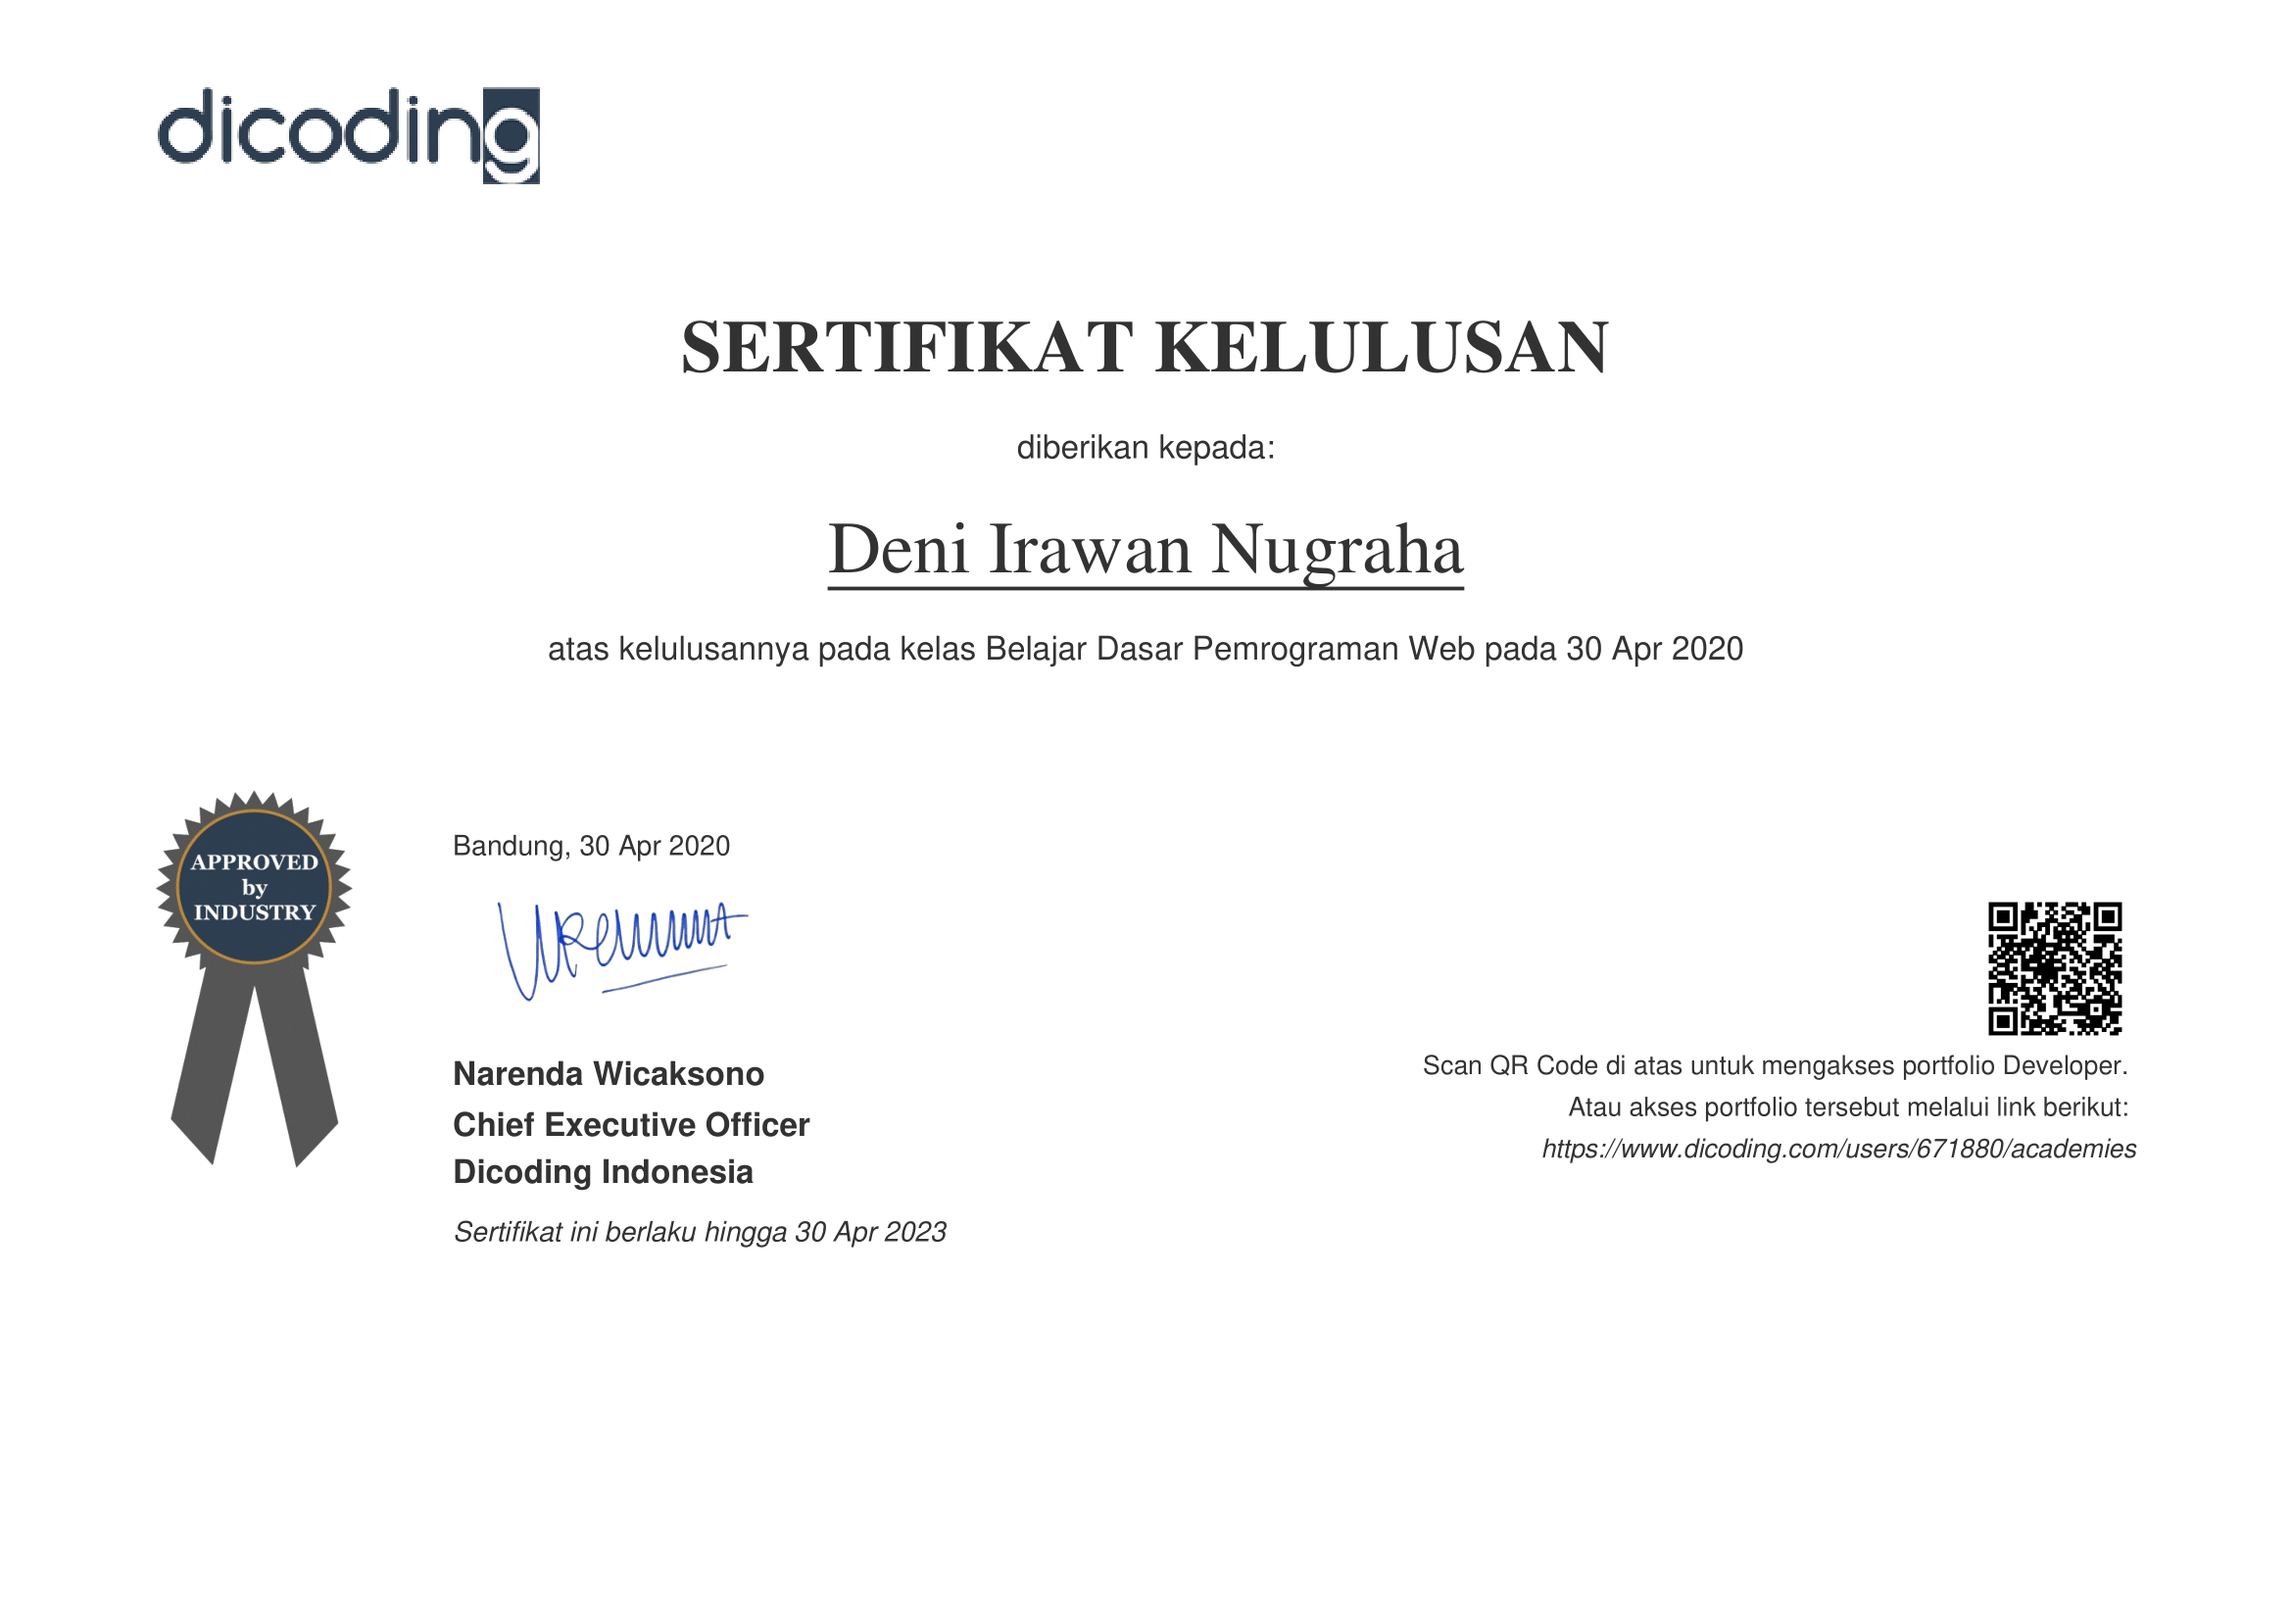
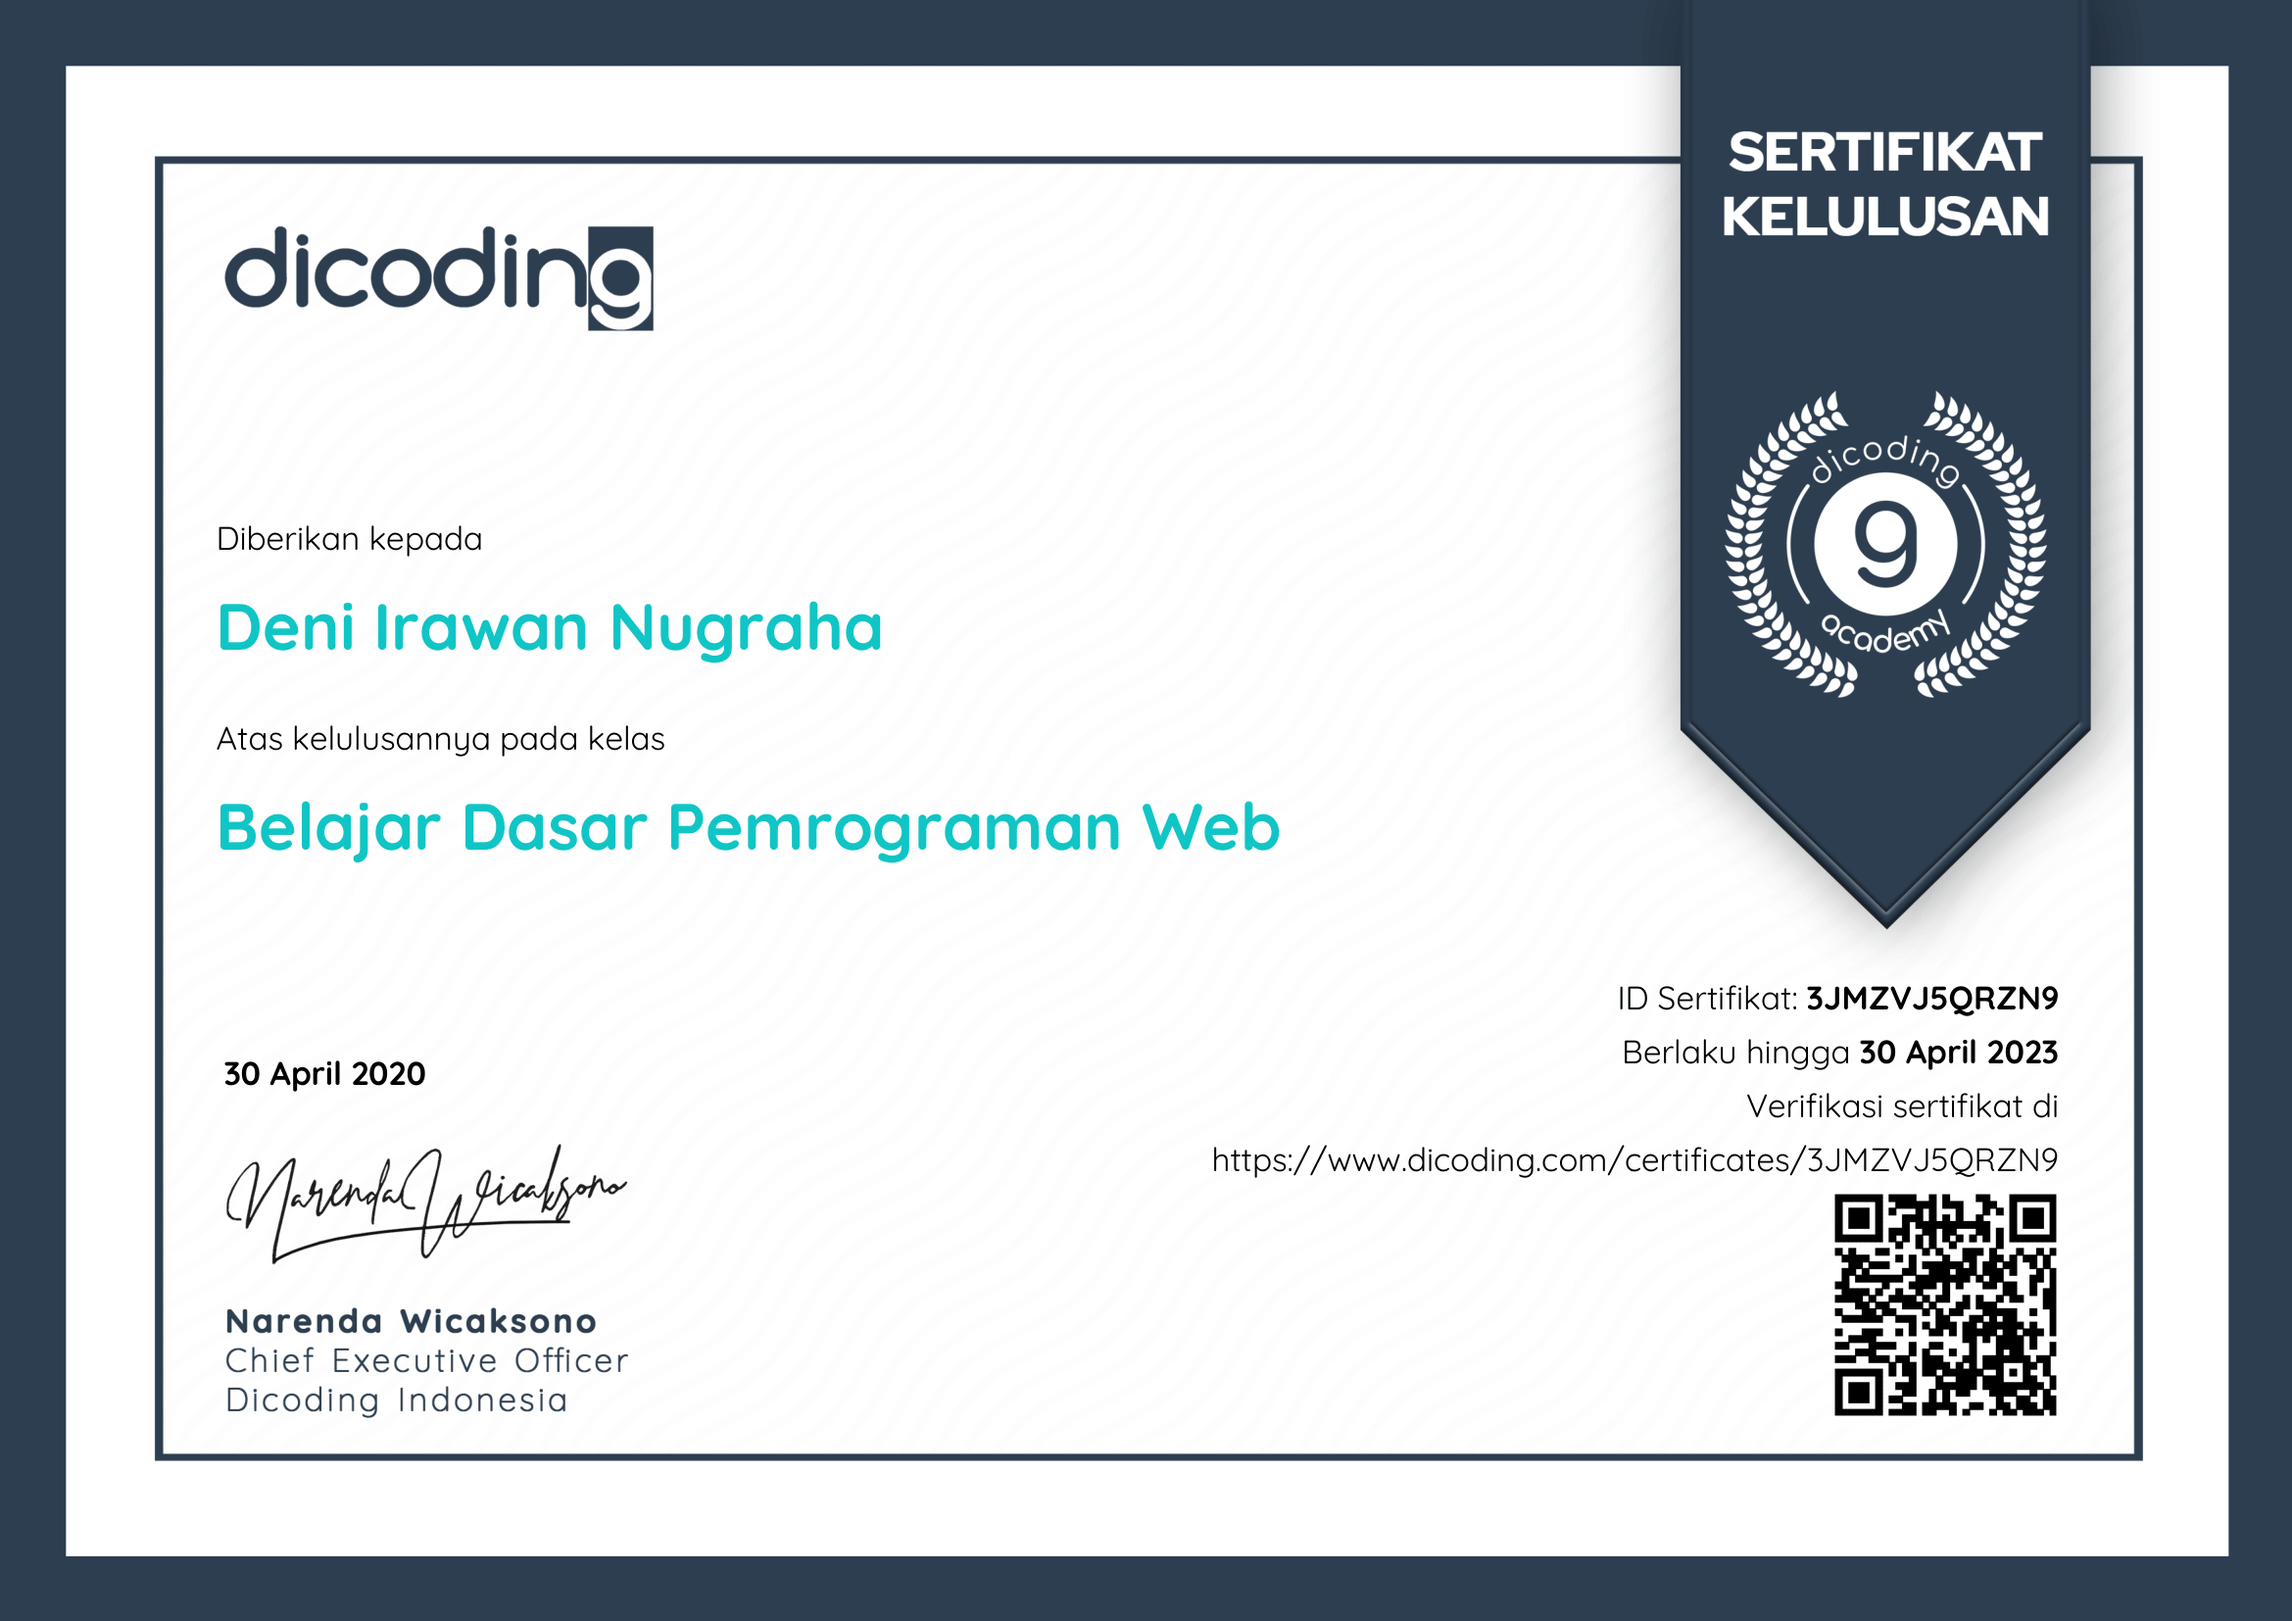
update sertifikat dicoding

diff --git a/certificate.html b/certificate.html
@@ -105,103 +105,10 @@
    	<div class="row portfolio-content">
    		<div class="col-twelve">
    			<div id="folio-wrap" class="bricks-wrapper">					
-
-   				<div class="brick folio-item">
-	               <div class="item-wrap animate-this" data-src="images/certificate/2ed969739e17c1dc4971164ea10df84bpath_certificate_ae777f0dqb7a8z-1.png" data-sub-html="#01" > 	
-	                  <a href="#" class="overlay">
-	                  	<img src="images/certificate/2ed969739e17c1dc4971164ea10df84bpath_certificate_ae777f0dqb7a8z-1.png" alt="dicoding1">	                     
-	                     <div class="item-text">
-	                     	<span class="folio-types">
-		     					      Certificate 
-		     					   </span>
-		     					   <h3 class="folio-title">Path Pengembangan Web (Node Js)<br>From Progate</h3>	     					   
-		     					</div>                                        
-	                  </a>
-	                  <a href="#" class='details-link' title="details">
-	                  	<i class="icon-link"></i>
-	                  </a>
-	               </div> <!-- end item-wrap -->
-						
-						<div id="01" class='hide'>
-							<h4>Curriculum</h4>
-							<p>
-							  1.Fundamental Html & Css<br>
-							  2.Fundamental JavaScript<br>
-							  3.Fundamental React Js<br>
-							  4.Fundamental Mysql<br>
-							  5.Fundamental Node Js
-							</p>
-						
-						</div>
-	        		</div> <!-- end folio-item -->
-
 	        		<div class="brick folio-item">
-	               <div class="item-wrap animate-this" data-src="images/certificate/CERT-VPGLRCTF.jpg" data-sub-html="#02"> 	
-	                  <a href="#" class="overlay">
-	                  	<img src="images/certificate/CERT-VPGLRCTF.jpg" alt="skill academy 1">	                     
-	                     <div class="item-text">
-	                     	<span class="folio-types">
-		     					      Certificate
-		     					   </span>
-		     					   <h3 class="folio-title">UX Designer : Digital Product Development<br>From Skill Academy</h3>  	     					   
-		     					</div>                                        
-	                  </a>
-	                  <a href="https://skillacademy.com/sertifikat/AZ9BZKVRB7GIRP" class='details-link' title="details">
-	                  	<i class="icon-link"></i>
-	                  </a>
-	               </div> <!-- end item-wrap -->
 
-	               <div id="02" class='hide'>
-							<h4>Curriculum</h4>
-							<p>1.Basic Concept UX Design<br>
-                 2.User Centric Design (UCD) Product Development<br>
-                 3.Who Are The Users<br>
-                 4.User Interviews & Surveys<br>
-                 5.Customer Journey Map (CJM)<br>
-                 6.IA & User Flow<br>
-                 7.Prototype<br>
-                 8.Usability Testing<br>
-                 9.Summary<br>
-                 <a href="https://skillacademy.com/sertifikat/AZ9BZKVRB7GIRP">Validate</a></p>
-						</div>	               
-	        		</div> <!-- end folio-item -->
-
-        		<div class="brick folio-item">
-
-	               <div class="item-wrap animate-this" data-src="images/certificate/cert-preview904109118.jpeg" data-sub-html="#02"> 	
-
-	                  <a href="#" class="overlay">
-	                  	<img src="images/certificate/cert-preview904109118.jpeg" alt="skill academy 1">	                     
-	                     <div class="item-text">
-	                     	<span class="folio-types">
-		     					      Certificate
-		     					   </span>
-		     					   <h3 class="folio-title">Learn Web Design : The Ultimate Guide For Beginners<br>From BitDegree</h3>  	     					   
-		     					</div>                                        
-	                  </a>
-	                  <a href="https://skillacademy.com/sertifikat/AZ9BZKVRB7GIRP" class='details-link' title="details">
-	                  	<i class="icon-link"></i>
-	                  </a>
-	               </div> <!-- end item-wrap -->
-
-	               <div id="02" class='hide'>
-							<h4>Curriculum</h4>
-							<p>1.Basic Concept UX Design<br>
-                 2.User Centric Design (UCD) Product Development<br>
-                 3.Who Are The Users<br>
-                 4.User Interviews & Surveys<br>
-                 5.Customer Journey Map (CJM)<br>
-                 6.IA & User Flow<br>
-                 7.Prototype<br>
-                 8.Usability Testing<br>
-                 9.Summary<br>
-                 <a href="https://skillacademy.com/sertifikat/AZ9BZKVRB7GIRP">Validate</a></p>
-						</div>	               
-	        		</div> <!-- end folio-item -->
-
-
-	        		<div class="brick folio-item">
 	               <div class="item-wrap animate-this" data-src="images/certificate/sertifikat_course_123_671880_300420090616-1.png" data-sub-html="#03" >   	
+
 	                  <a href="https://www.dicoding.com/users/671880/academies" class="overlay">
 	                  	<img src="images/certificate/sertifikat_course_123_671880_300420090616-1.png" alt="Explore">	                     
 	                     <div class="item-text">	                     		     					    
@@ -234,9 +141,106 @@
                7.Basic JavaScript and DOM Manipulation<br>
 
                8.Web Storage<br>
-							 <a href="https://www.dicoding.com/users/671880/academies">Validate</a>
+							 <a href="https://www.dicoding.com/certificates/3JMZVJ5QRZN9">Validate</a>
 							</p>
 						</div>               
+	        		</div> <!-- end folio-item -->
+	        		
+	        		<div class="brick folio-item">
+	               <div class="item-wrap animate-this" data-src="images/certificate/CERT-VPGLRCTF.jpg" data-sub-html="#02"> 	
+	                  <a href="#" class="overlay">
+	                  	<img src="images/certificate/CERT-VPGLRCTF.jpg" alt="skill academy 1">	                     
+	                     <div class="item-text">
+	                     	<span class="folio-types">
+		     					      Certificate
+		     					   </span>
+		     					   <h3 class="folio-title">UX Designer : Digital Product Development<br>From Skill Academy</h3>  	     					   
+		     					</div>                                        
+	                  </a>
+	                  <a href="https://skillacademy.com/sertifikat/AZ9BZKVRB7GIRP" class='details-link' title="details">
+	                  	<i class="icon-link"></i>
+	                  </a>
+	               </div> <!-- end item-wrap -->
+
+	               <div id="02" class='hide'>
+							<h4>Curriculum</h4>
+							<p>1.Basic Concept UX Design<br>
+                 2.User Centric Design (UCD) Product Development<br>
+                 3.Who Are The Users<br>
+                 4.User Interviews & Surveys<br>
+                 5.Customer Journey Map (CJM)<br>
+                 6.IA & User Flow<br>
+                 7.Prototype<br>
+                 8.Usability Testing<br>
+                 9.Summary<br>
+                 <a href="https://skillacademy.com/sertifikat/AZ9BZKVRB7GIRP">Validate</a></p>
+						</div>	               
+	        		</div> <!-- end folio-item -->
+	        		
+	        		
+
+   				<div class="brick folio-item">
+
+	               <div class="item-wrap animate-this" data-src="images/certificate/2ed969739e17c1dc4971164ea10df84bpath_certificate_ae777f0dqb7a8z-1.png" data-sub-html="#01" > 	
+	                  <a href="#" class="overlay">
+	                  	<img src="images/certificate/2ed969739e17c1dc4971164ea10df84bpath_certificate_ae777f0dqb7a8z-1.png" alt="dicoding1">	                     
+	                     <div class="item-text">
+	                     	<span class="folio-types">
+		     					      Certificate 
+		     					   </span>
+		     					   <h3 class="folio-title">Path Pengembangan Web (Node Js)<br>From Progate</h3>	     					   
+		     					</div>                                        
+	                  </a>
+	                  <a href="#" class='details-link' title="details">
+	                  	<i class="icon-link"></i>
+	                  </a>
+	               </div> <!-- end item-wrap -->
+						
+						<div id="01" class='hide'>
+							<h4>Curriculum</h4>
+							<p>
+							  1.Fundamental Html & Css<br>
+							  2.Fundamental JavaScript<br>
+							  3.Fundamental React Js<br>
+							  4.Fundamental Mysql<br>
+							  5.Fundamental Node Js
+							</p>
+						
+						</div>
+	        		</div> <!-- end folio-item -->
+
+
+        		<div class="brick folio-item">
+
+	               <div class="item-wrap animate-this" data-src="images/certificate/cert-preview904109118.jpeg" data-sub-html="#02"> 	
+
+	                  <a href="#" class="overlay">
+	                  	<img src="images/certificate/cert-preview904109118.jpeg" alt="skill academy 1">	                     
+	                     <div class="item-text">
+	                     	<span class="folio-types">
+		     					      Certificate
+		     					   </span>
+		     					   <h3 class="folio-title">Learn Web Design : The Ultimate Guide For Beginners<br>From BitDegree</h3>  	     					   
+		     					</div>                                        
+	                  </a>
+	                  <a href="https://skillacademy.com/sertifikat/AZ9BZKVRB7GIRP" class='details-link' title="details">
+	                  	<i class="icon-link"></i>
+	                  </a>
+	               </div> <!-- end item-wrap -->
+
+	               <div id="02" class='hide'>
+							<h4>Curriculum</h4>
+							<p>1.Basic Concept UX Design<br>
+                 2.User Centric Design (UCD) Product Development<br>
+                 3.Who Are The Users<br>
+                 4.User Interviews & Surveys<br>
+                 5.Customer Journey Map (CJM)<br>
+                 6.IA & User Flow<br>
+                 7.Prototype<br>
+                 8.Usability Testing<br>
+                 9.Summary<br>
+                 <a href="https://skillacademy.com/sertifikat/AZ9BZKVRB7GIRP">Validate</a></p>
+						</div>	               
 	        		</div> <!-- end folio-item -->
 
 					<div class="brick folio-item">

diff --git a/css/main.css b/css/main.css
@@ -2010,7 +2010,7 @@ html[data-useragent*='MSIE 10.0'] .scrolldown,
   padding: 0;
 }
 #portfolio .intro-wrap {
-  padding: 15rem 0 21rem;
+  padding: 15rem 21rem;
   background: #111111;
 }
 #portfolio .section-intro h3 {
